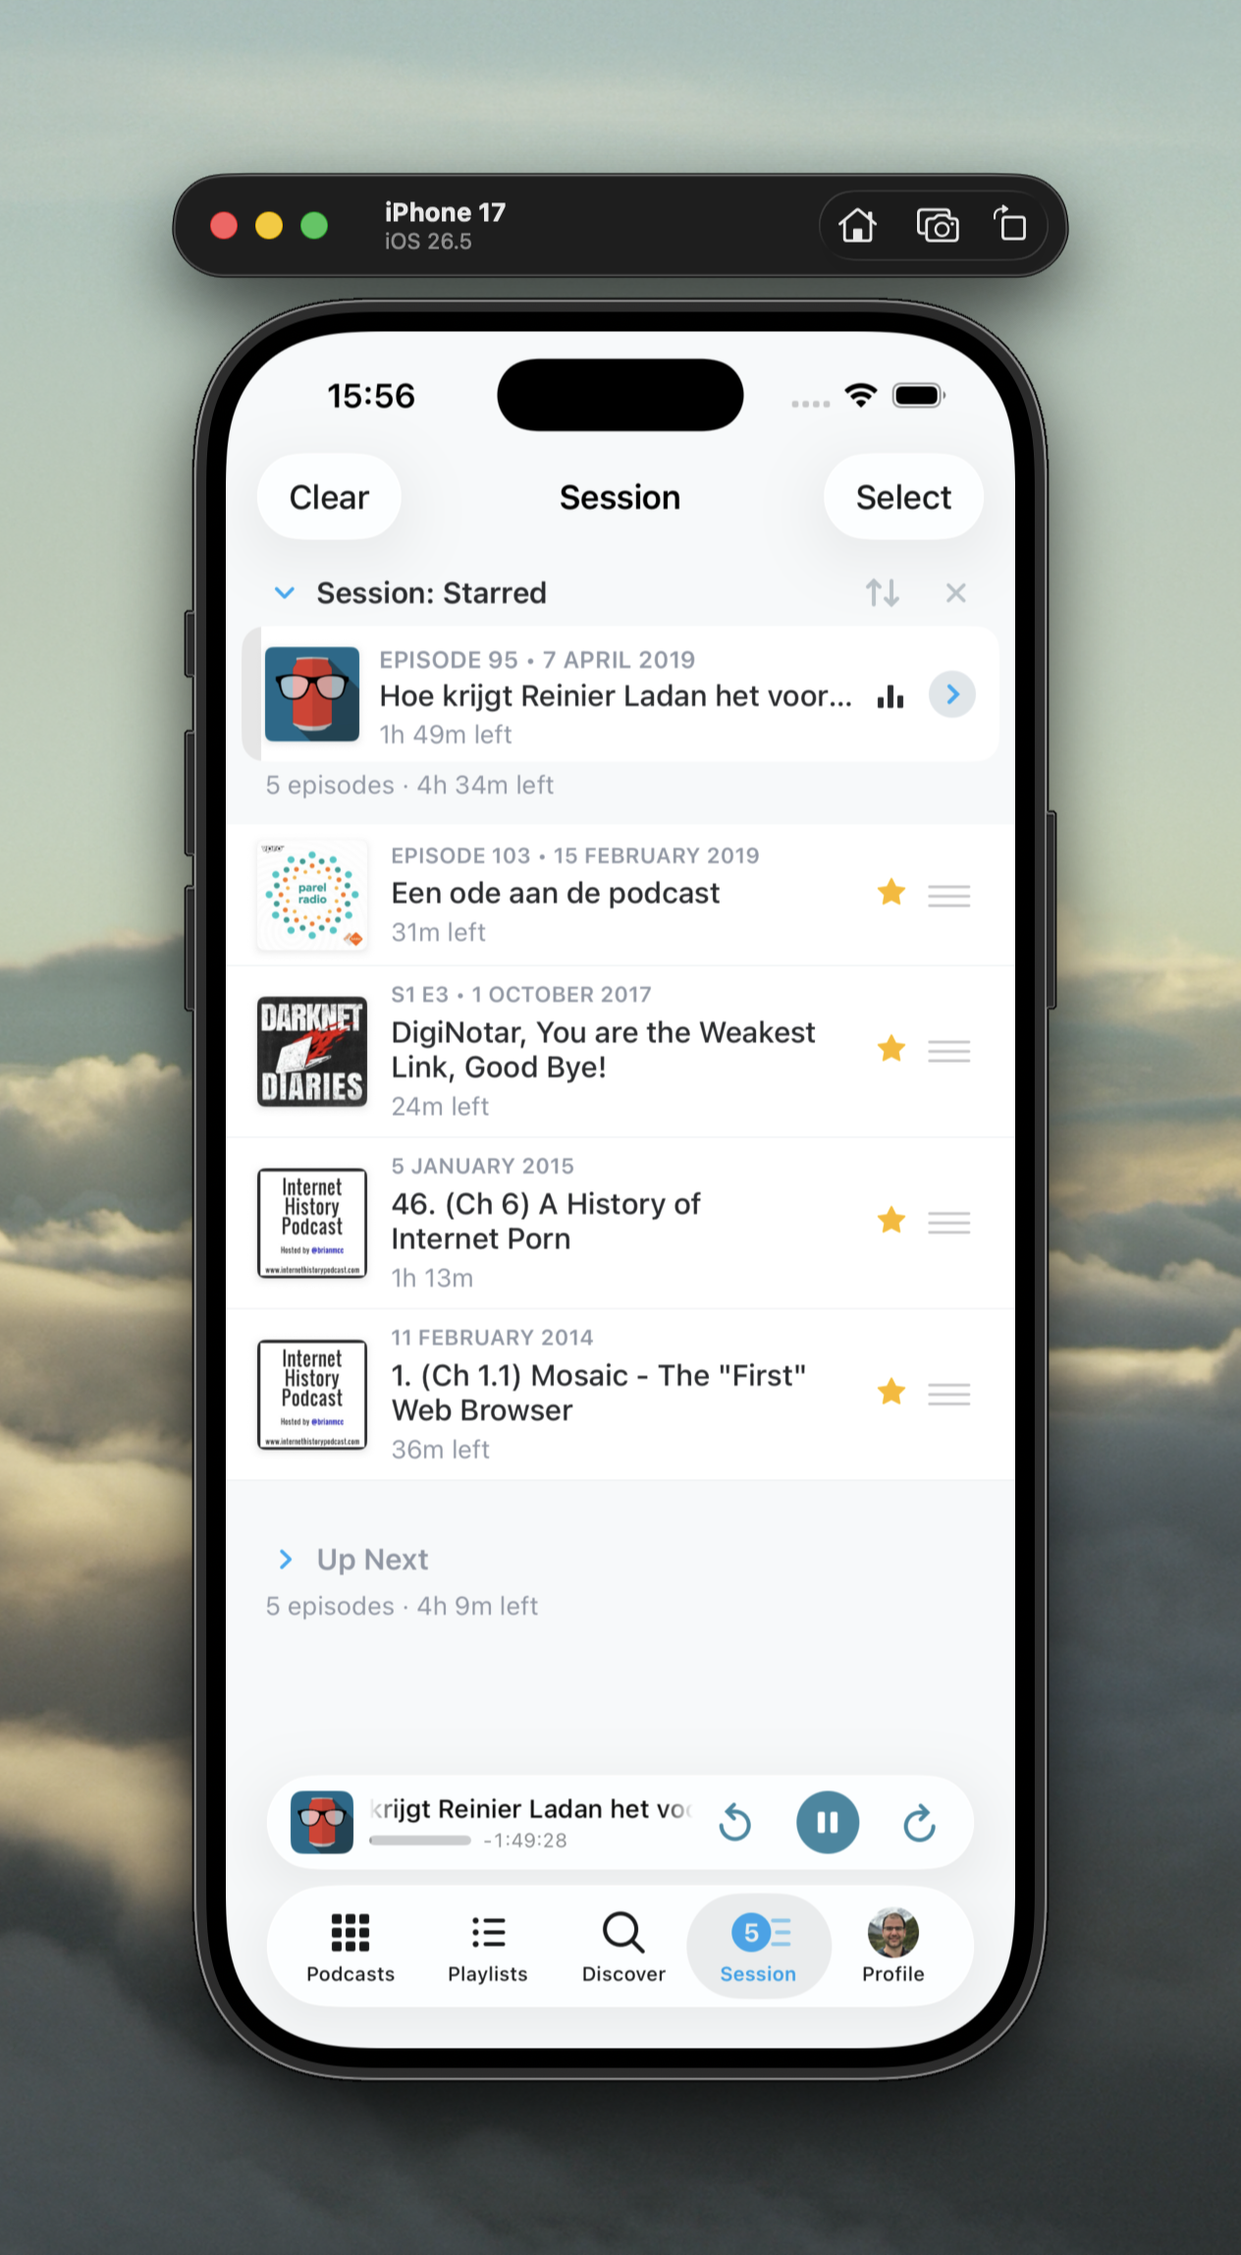
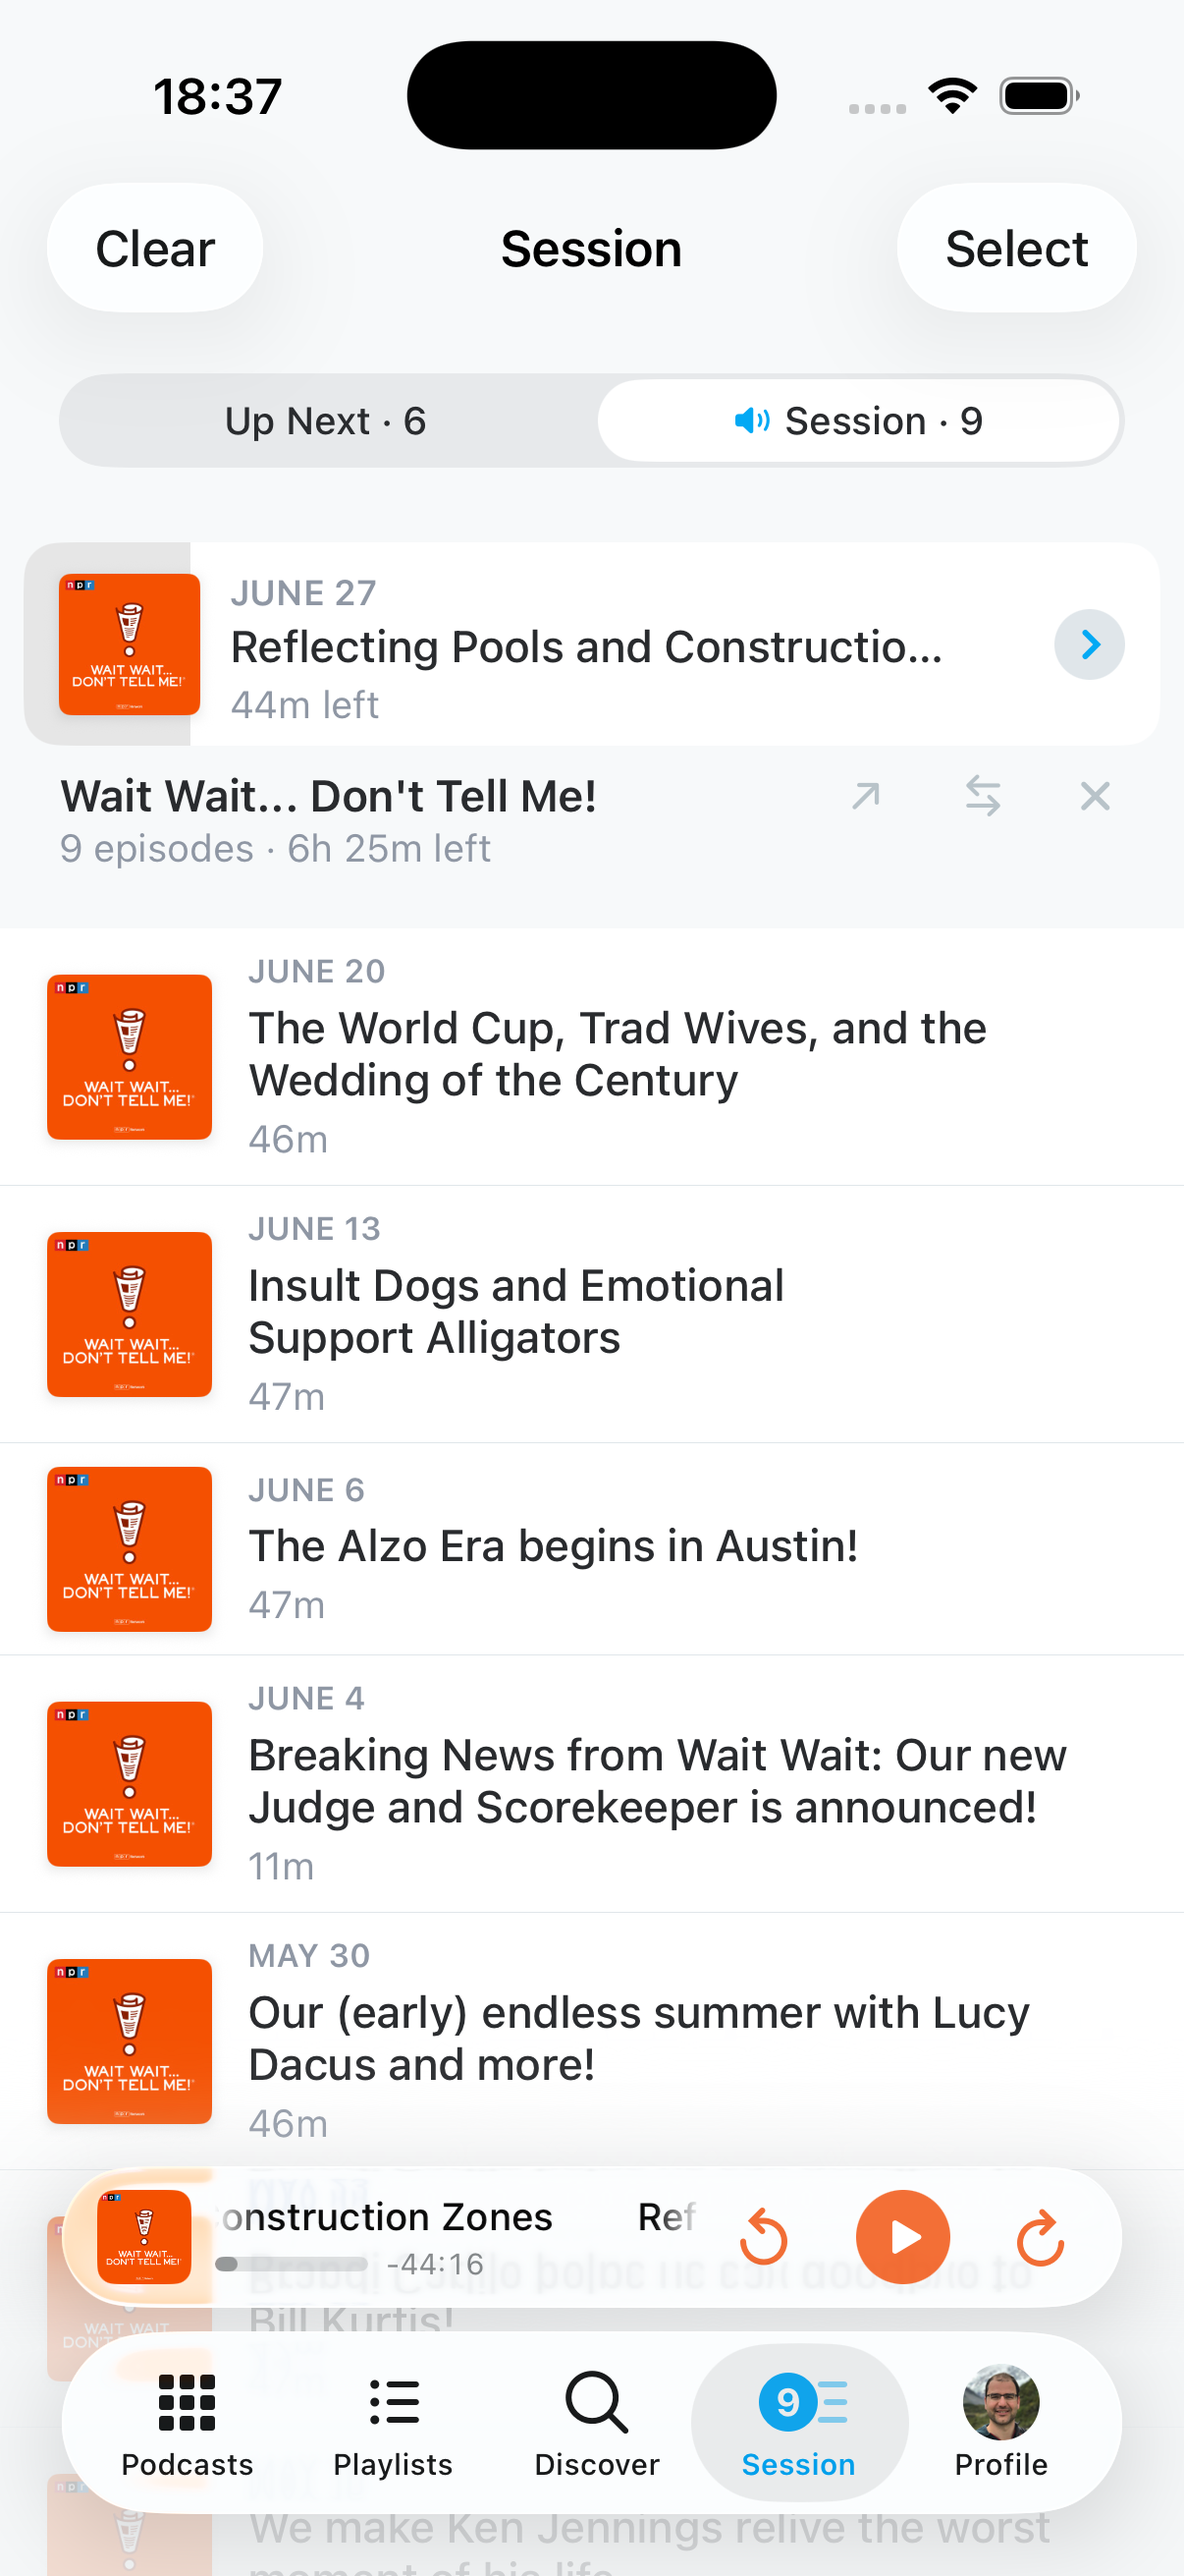
Update README fork overview and Session screenshot for the pill switcher
Claude-Session: https://claude.ai/code/session_01WB5cEdLkF3nirTWhU4bDZp

diff --git a/README.md b/README.md
@@ -26,7 +26,7 @@ A personal fork by [@mdbraber](https://github.com/mdbraber) adding a set of play
 <table>
   <tr>
     <td align="center"><img src="docs/fork/playlist-play-as-session.png" width="160" /><br /><sub>Play as Session</sub></td>
-    <td align="center"><img src="docs/fork/session-in-up-next.png" width="160" /><br /><sub>Session + Up Next</sub></td>
+    <td align="center"><img src="docs/fork/session-in-up-next.png" width="160" /><br /><sub>Session / Up Next pills</sub></td>
     <td align="center"><img src="docs/fork/up-next-filter.png" width="160" /><br /><sub>Queue lens + recents</sub></td>
     <td align="center"><img src="docs/fork/smart-rules.png" width="160" /><br /><sub>Extended smart rules</sub></td>
     <td align="center"><img src="docs/fork/smart-rule-folders.png" width="160" /><br /><sub>Folder rule + exclude</sub></td>
@@ -35,9 +35,10 @@ A personal fork by [@mdbraber](https://github.com/mdbraber) adding a set of play
 
 ### Playback Sessions
 
-- **Play as Session**: a playlist (manual or smart) plays *instead of* the Up Next queue. The queue is never modified; when the session runs out of unfinished episodes, playback returns to it. Ending a session (✕) hands playback straight to the first (filter-matching) queued episode.
-- The session is a **live mirror** of its playlist: reorder in the session or on the playlist screen and both change; the session re-reads the playlist on every advance.
-- Up Next shows the **playing world on top** (its header above the Now Playing card, with a ticking "N episodes · X left" line under the card) and the **parked world below** (dimmed title, own counts, collapsible via chevron). The Up Next tab and screen title read "Session" with the session's count while one is active.
+- **Play as Session**: a playlist (manual or smart) or a podcast plays *instead of* the Up Next queue. The queue is never modified; when the session runs out of unfinished episodes, playback returns to it. Ending a session (✕) hands playback straight to the first (filter-matching) queued episode.
+- The session is a **live mirror** of its playlist: reorder in the session or on the playlist screen and both change; the session re-reads the playlist on every advance. A podcast's *Play as Session* runs through a one-podcast smart playlist (created on first use), so podcast sessions get custom order, the New inbox, and reorder/sort like any other smart playlist session.
+- The Up Next screen has a **pill switcher** (Up Next left, Session right): each pill carries its world's episode count, and the world that owns playback is marked with a speaker glyph. One world shows at a time in the stock layout — Now Playing card on top only where playback lives. The pill **auto-follows** playback ownership; tapping the other pill is a view-only *peek* that never changes what plays. The tab and screen title follow whichever world is playing.
+- The session header shows the source's name (tap to open it) over a ticking "N episodes · X left" line, plus **switch session** (⇄, picks from the most recent sessions — count configurable in Settings → General), **go to source** (↗), and ✕ to end. Ending a session stays on the Session view, which offers a *Choose a session to listen* empty state.
 - Session rows behave like queue rows: standard episode swipes, drag-to-reorder, tap per the "Play Up Next On Tap" setting; the session's sort picker mirrors the playlist's sort options (including custom order) and restarts playback from the new top.
 
 ### Smart Playlist Custom Order (Lineup + New)
